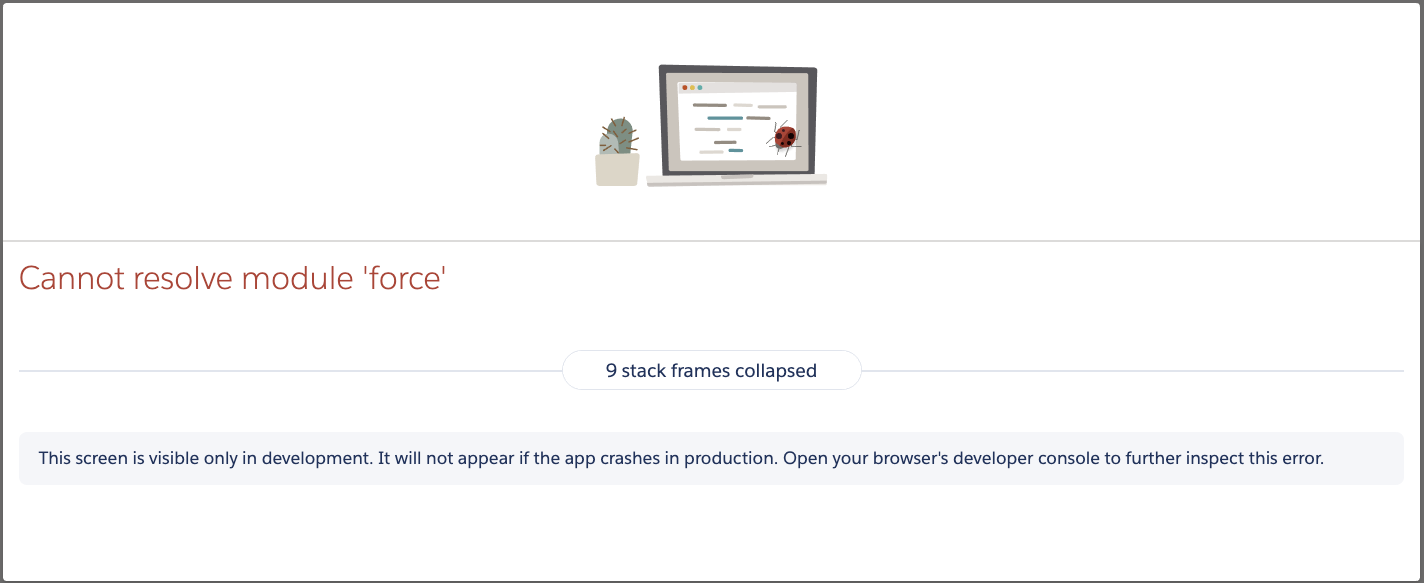
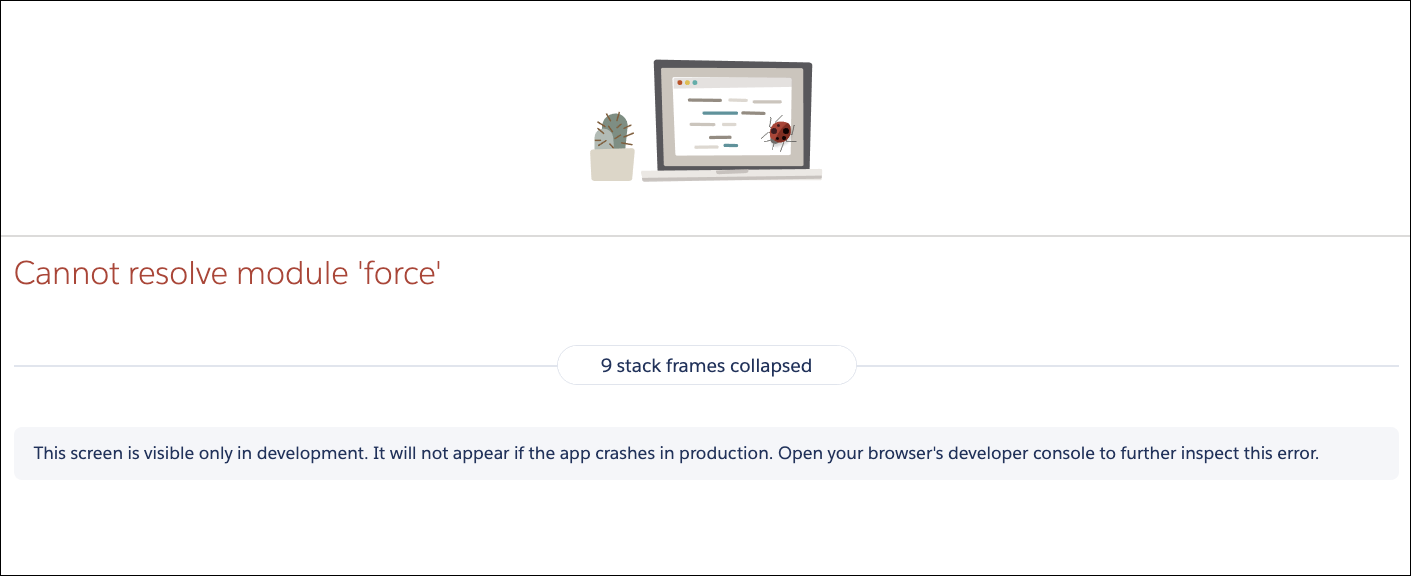
Update screenshots with consistent borders. Fix link to known issues.

diff --git a/docs/articles/lwc/localdev.md b/docs/articles/lwc/localdev.md
@@ -4,7 +4,7 @@ title: Local Development Server (Beta)
 
 The Local Development server is an SFDX CLI plugin that configures and runs a Lightning Web Components-enabled server on your computer. Now you can develop Lightning Web Component modules and see live changes without publishing your components to an org.
 
-**Note**: This feature is in beta and has been released early so we can collect your feedback. It may contain significant problems, undergo major changes, or be discontinued. If you encounter any problems, or want to request an enhancement, open a [GitHub issue](https://github.com/forcedotcom/lwc-dev-server/issues/new). The use of this feature is governed by the [Salesforce.com Program Agreement](https://trailblazer.me/terms?lan=en).
+**Note**: This feature is in beta and has been released early so we can collect your feedback. It may contain significant problems, undergo major changes, or be discontinued. If you encounter any problems, or want to request an enhancement, open a [GitHub issue](https://github.com/forcedotcom/lwc-dev-server-feedback/issues). The use of this feature is governed by the [Salesforce.com Program Agreement](https://trailblazer.me/terms?lan=en).
 
 * [Setup](#setup)
     * [System Requirements](#system-requirements)
@@ -23,7 +23,7 @@ The Local Development server is an SFDX CLI plugin that configures and runs a Li
 
 
 **Setup**
------
+---------
 
 ## System Requirements
 - Developer Hub-enabled org
@@ -129,7 +129,7 @@ Here's an example that shows the available configuration parameters.
 ```
 
 **Working With Salesforce Modules**
--------------------------------
+-----------------------------------
 
 The Local Development server is an SFDX CLI plugin that configures and runs a Lightning Web Components-enabled server on your computer. Now you can develop Lightning Web Component modules and see live changes without publishing your components to an org.
 
@@ -151,8 +151,8 @@ These modules work with the local development server, but behave differently fro
 
 
 | **Module Name**      | **Local Development Behavior** |
-| ----------- | ----------- |
-| `@salesforce/i18n`      | The locale is set to US/English locale. For local development, all imports from `@salesforce/i18n` are hardcoded to return values that are similar to what you would see in the en-US locale in production.       |
+| ----------------     | ------------------------------ |
+| `@salesforce/i18n`   |    The locale is set to US/English locale. For local development, all imports from `@salesforce/i18n` are hardcoded to return values that are similar to what you would see in the en-US locale in production.       |
 | `@salesforce/user`   | You can include `@salesforce/user` when working in local development. User ID is not supported, and local development assigns it a value of `undefined`. The value of `isGuest` always returns true.         |
 
 ## Unsupported Modules
@@ -165,7 +165,7 @@ The local development server throws an error if you try to preview any component
 
 
 **Considerations**
---------------
+------------------
 - The local development server supports Lightning web components only. It does not support Aura components. 
 - Don't connect to a production Salesforce org with the local development server. Local development uses data in real time. If you authenticate to a production org, then you will modify or overwrite data in production. 
 - You can't specify or change attribute values for your components on the component preview page. Components render with their default attribute values. For example, let's say you're writing a clock component. To view the component, the clock needs to know your timezone, which requires setting a timezone attribute. We recommend setting a default timezone in the code. If you can't specify a default value, create a wrapper component that creates the clock and sets the proper attributes. To prevent confusion, make sure to give your wrapper component a name that clarifies it is for testing purposes only. 
@@ -175,7 +175,7 @@ The local development server throws an error if you try to preview any component
 - Salesforce Standard Design Tokens and Custom Tokens in CSS files aren't supported. For more information about Design Tokens and Custom Tokens, see the [Salesforce Lightning Design System](https://www.lightningdesignsystem.com/design-tokens/). 
 
 **Common Errors**
--------------
+-----------------
 
 Here are common errors that you may run into while working with the local development server.
 
